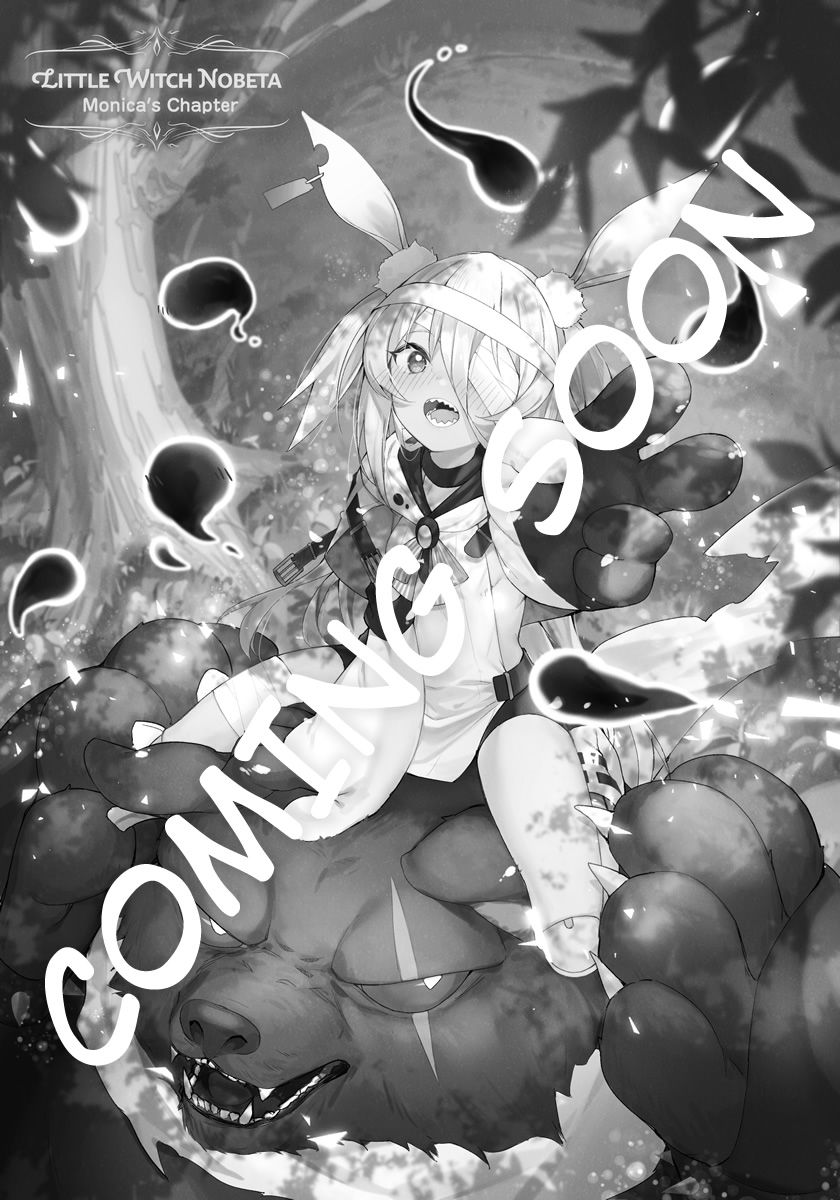
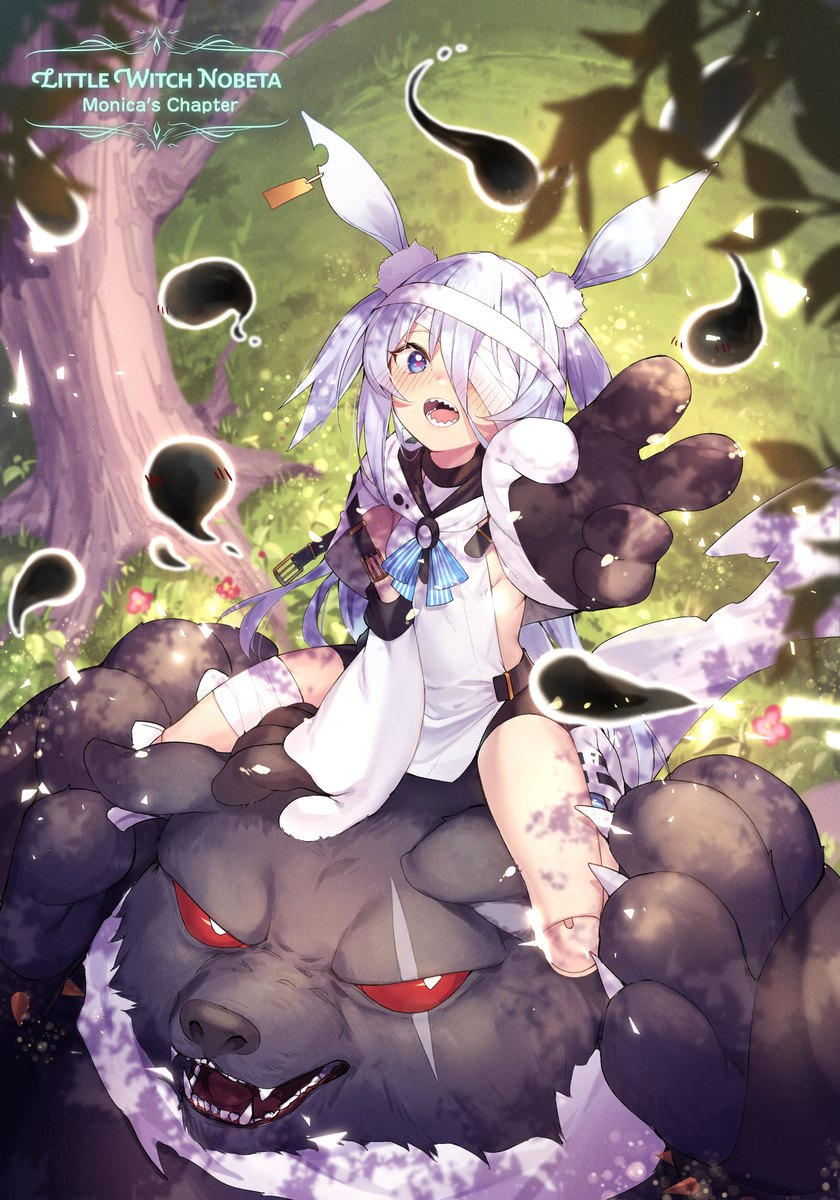
publish monica's chapter

diff --git a/projects/little-witch-nobeta/assets/aniesu.min.js b/projects/little-witch-nobeta/assets/aniesu.min.js
@@ -1,1 +1,1 @@
-!function(e,i){"use strict";if(e.Aniesu={active:!1,current:{ch:1,pg:1},chapter:{1:6,2:6,3:1,4:6,5:1},createViewer:function(){if(Aniesu.viewer)return!1;var e=i.createElement("DIV");e.id="aniesu_viewer",e.innerHTML='<div id="aniesu_viewer_prev" onclick="Aniesu.prev();"></div><div id="aniesu_viewer_next" onclick="Aniesu.next();"></div><div id="aniesu_viewer_src"></div><div id="aniesu_viewer_page" tabindex="0" onclick="Aniesu.hideHeader();"></div><div id="aniesu_viewer_head"><div id="aniesu_viewer_close" onclick="Aniesu.close();" title="Close manga viewer"></div><div id="aniesu_viewer_title"><div id="aniesu_viewer_manga_title">Little Witch Nobeta</div><div id="aniesu_viewer_chapter_title">Wanderer in the Dream</div></div><a id="aniesu_viewer_twitter" href="https://twitter.com/intent/tweet?hashtags=%E3%82%A2%E3%83%8B%E3%82%A8%E3%82%B9%E3%81%AE%E6%B5%81%E5%84%80&text=Kuro%20no%20Kiseki%3A%20Agnes\'%20Style%20-%20Chapter%201&url=https%3A%2F%2Fsethclydesdale.github.io%2Fprojects%2Fagnes-style%2F%3Fchapter%3D1" target="_blank" title="Share current chapter to Twitter"></a></div>',i.body.appendChild(e),Aniesu.viewer={body:e,ch_title:i.getElementById("aniesu_viewer_chapter_title"),page:i.getElementById("aniesu_viewer_page"),prev:i.getElementById("aniesu_viewer_prev"),next:i.getElementById("aniesu_viewer_next"),src:i.getElementById("aniesu_viewer_src"),twitter:i.getElementById("aniesu_viewer_twitter")}},open:function(e,t,n){Aniesu.active=!0,Aniesu.current={ch:e,pg:t},Aniesu.preloadPages(e),e>1&&Aniesu.preloadPages(e-1),n||Aniesu.updateURL(e),Aniesu.viewer?Aniesu.viewer.body.style.display="":Aniesu.createViewer(),i.body.style.overflow="hidden",Aniesu.updateShareLink(),Aniesu.setTitle(),Aniesu.viewer.page.style.backgroundImage="url(chapters/read/chapter-"+e+"/"+t+".jpg)",Aniesu.viewer.src.innerHTML="",Aniesu.viewer.page.focus(),Aniesu.hideHeader()},close:function(e){Aniesu.active=!1,Aniesu.viewer.body.style.display="none",i.body.style.overflow="",e||Aniesu.updateURL()},setTitle:function(){Aniesu.viewer.ch_title.innerHTML=1==Aniesu.current.ch?"Wanderer in the Dream (Preview)":2==Aniesu.current.ch?"Tania's Chapter (Preview)":3==Aniesu.current.ch?"Monica's Chapter (Preview)":4==Aniesu.current.ch?"Vanessa's Chapter (Preview)":5==Aniesu.current.ch?"The Little Black Cat (Preview)":"Chapter "+Aniesu.current.ch},next:function(){Aniesu.chapter[Aniesu.current.ch]&&++Aniesu.current.pg>Aniesu.chapter[Aniesu.current.ch]&&(Aniesu.chapter[++Aniesu.current.ch]?(Aniesu.current.pg=1,Aniesu.updateShareLink(),Aniesu.setTitle(),Aniesu.updateURL(Aniesu.current.ch)):(Aniesu.current.ch--,Aniesu.current.pg--,alert("You've reached the end of the previews! You can download the full chapters on the main page by closing the manga viewer! You can do that by clicking the middle of the screen and then the X on the top left."))),Aniesu.current.pg==Aniesu.chapter[Aniesu.current.ch]&&Aniesu.preloadPages(Aniesu.current.ch+1),Aniesu.chapter[Aniesu.current.ch]&&(Aniesu.viewer.page.style.backgroundImage="url(chapters/read/chapter-"+Aniesu.current.ch+"/"+Aniesu.current.pg+".jpg)"),9==Aniesu.current.ch&&Aniesu.current.pg>1?Aniesu.viewer.src.innerHTML='<a href="'+Aniesu.art[Aniesu.current.pg]+'" target="_blank"><i class="fa">&#xf099;</i> View on Twitter</a>':Aniesu.viewer.src.innerHTML=""},prev:function(){Aniesu.chapter[Aniesu.current.ch]&&--Aniesu.current.pg<1&&(Aniesu.chapter[--Aniesu.current.ch]?(Aniesu.preloadPages(),Aniesu.current.pg=Aniesu.chapter[Aniesu.current.ch],Aniesu.updateShareLink(),Aniesu.setTitle(),Aniesu.updateURL(Aniesu.current.ch)):(Aniesu.current.ch++,Aniesu.current.pg++,alert("This goes to the previous page! Click on the right side of the screen to show the next page. Click the middle of the page to show the top bar."))),1==Aniesu.current.pg&&Aniesu.preloadPages(Aniesu.current.ch-1),Aniesu.chapter[Aniesu.current.ch]&&(Aniesu.viewer.page.style.backgroundImage="url(chapters/read/chapter-"+Aniesu.current.ch+"/"+Aniesu.current.pg+".jpg)"),9==Aniesu.current.ch&&Aniesu.current.pg>1?Aniesu.viewer.src.innerHTML='<a href="'+Aniesu.art[Aniesu.current.pg]+'" target="_blank"><i class="fa">&#xf099;</i> View on Twitter</a>':Aniesu.viewer.src.innerHTML=""},preloadPages:function(e){if(Aniesu.chapter[e])for(var i=Aniesu.chapter[e]+1;i-- >1;)Aniesu.preload("chapters/read/chapter-"+e+"/"+i+".jpg")},preload:function(e){(new Image).src=e},hideHeader:function(e){Aniesu.timeout&&clearTimeout(Aniesu.timeout),Aniesu.timeout=setTimeout(function(){Aniesu.viewer.page.blur(),delete Aniesu.timeout},3e3)},updateShareLink:function(){Aniesu.viewer.twitter.href="https://twitter.com/intent/tweet?hashtags=%E3%82%A2%E3%83%8B%E3%82%A8%E3%82%B9%E3%81%AE%E6%B5%81%E5%84%80&text=Kuro%20no%20Kiseki%3A%20Agnes'%20Style%20-%20"+(9==Aniesu.current.ch?"Bonus%20Illustrations":"Chapter%20"+Aniesu.current.ch)+"&url=https%3A%2F%2Fsethclydesdale.github.io%2Fprojects%2Fagnes-style%2F%3Fchapter%3D"+Aniesu.current.ch},updateURL:function(t){e.history&&e.history.pushState&&e.history.pushState({},i.title,e.location.href.replace(e.location.hash,"").replace(e.location.search,"")+(t?"?chapter="+t:""))}},/chapter=\d+/i.test(e.location.search)){var t=Number(e.location.search.replace(/.*?chapter=(\d+).*/i,"$1"));Aniesu.chapter[t]&&Aniesu.open(t,1,!0)}i.addEventListener("keydown",function(e){if(Aniesu.active)switch(e.key.toLowerCase()){case"left":case"arrowleft":Aniesu.prev();break;case"right":case"arrowright":Aniesu.next();break;case"esc":case"escape":Aniesu.close()}}),e.onpopstate=function(){if(/chapter=\d+/i.test(e.location.search)){var i=Number(e.location.search.replace(/.*?chapter=(\d+).*/i,"$1"));Aniesu.chapter[i]&&Aniesu.open(i,1,!0)}else Aniesu.active&&Aniesu.close(!0)}}(window,document);
+!function(e,i){"use strict";if(e.Aniesu={active:!1,current:{ch:1,pg:1},chapter:{1:6,2:6,3:6,4:6,5:1},createViewer:function(){if(Aniesu.viewer)return!1;var e=i.createElement("DIV");e.id="aniesu_viewer",e.innerHTML='<div id="aniesu_viewer_prev" onclick="Aniesu.prev();"></div><div id="aniesu_viewer_next" onclick="Aniesu.next();"></div><div id="aniesu_viewer_src"></div><div id="aniesu_viewer_page" tabindex="0" onclick="Aniesu.hideHeader();"></div><div id="aniesu_viewer_head"><div id="aniesu_viewer_close" onclick="Aniesu.close();" title="Close manga viewer"></div><div id="aniesu_viewer_title"><div id="aniesu_viewer_manga_title">Little Witch Nobeta</div><div id="aniesu_viewer_chapter_title">Wanderer in the Dream</div></div><a id="aniesu_viewer_twitter" href="https://twitter.com/intent/tweet?hashtags=%E3%82%A2%E3%83%8B%E3%82%A8%E3%82%B9%E3%81%AE%E6%B5%81%E5%84%80&text=Kuro%20no%20Kiseki%3A%20Agnes\'%20Style%20-%20Chapter%201&url=https%3A%2F%2Fsethclydesdale.github.io%2Fprojects%2Fagnes-style%2F%3Fchapter%3D1" target="_blank" title="Share current chapter to Twitter"></a></div>',i.body.appendChild(e),Aniesu.viewer={body:e,ch_title:i.getElementById("aniesu_viewer_chapter_title"),page:i.getElementById("aniesu_viewer_page"),prev:i.getElementById("aniesu_viewer_prev"),next:i.getElementById("aniesu_viewer_next"),src:i.getElementById("aniesu_viewer_src"),twitter:i.getElementById("aniesu_viewer_twitter")}},open:function(e,t,n){Aniesu.active=!0,Aniesu.current={ch:e,pg:t},Aniesu.preloadPages(e),e>1&&Aniesu.preloadPages(e-1),n||Aniesu.updateURL(e),Aniesu.viewer?Aniesu.viewer.body.style.display="":Aniesu.createViewer(),i.body.style.overflow="hidden",Aniesu.updateShareLink(),Aniesu.setTitle(),Aniesu.viewer.page.style.backgroundImage="url(chapters/read/chapter-"+e+"/"+t+".jpg)",Aniesu.viewer.src.innerHTML="",Aniesu.viewer.page.focus(),Aniesu.hideHeader()},close:function(e){Aniesu.active=!1,Aniesu.viewer.body.style.display="none",i.body.style.overflow="",e||Aniesu.updateURL()},setTitle:function(){Aniesu.viewer.ch_title.innerHTML=1==Aniesu.current.ch?"Wanderer in the Dream (Preview)":2==Aniesu.current.ch?"Tania's Chapter (Preview)":3==Aniesu.current.ch?"Monica's Chapter (Preview)":4==Aniesu.current.ch?"Vanessa's Chapter (Preview)":5==Aniesu.current.ch?"The Little Black Cat (Preview)":"Chapter "+Aniesu.current.ch},next:function(){Aniesu.chapter[Aniesu.current.ch]&&++Aniesu.current.pg>Aniesu.chapter[Aniesu.current.ch]&&(Aniesu.chapter[++Aniesu.current.ch]?(Aniesu.current.pg=1,Aniesu.updateShareLink(),Aniesu.setTitle(),Aniesu.updateURL(Aniesu.current.ch)):(Aniesu.current.ch--,Aniesu.current.pg--,alert("You've reached the end of the previews! You can download the full chapters on the main page by closing the manga viewer! You can do that by clicking the middle of the screen and then the X on the top left."))),Aniesu.current.pg==Aniesu.chapter[Aniesu.current.ch]&&Aniesu.preloadPages(Aniesu.current.ch+1),Aniesu.chapter[Aniesu.current.ch]&&(Aniesu.viewer.page.style.backgroundImage="url(chapters/read/chapter-"+Aniesu.current.ch+"/"+Aniesu.current.pg+".jpg)"),9==Aniesu.current.ch&&Aniesu.current.pg>1?Aniesu.viewer.src.innerHTML='<a href="'+Aniesu.art[Aniesu.current.pg]+'" target="_blank"><i class="fa">&#xf099;</i> View on Twitter</a>':Aniesu.viewer.src.innerHTML=""},prev:function(){Aniesu.chapter[Aniesu.current.ch]&&--Aniesu.current.pg<1&&(Aniesu.chapter[--Aniesu.current.ch]?(Aniesu.preloadPages(),Aniesu.current.pg=Aniesu.chapter[Aniesu.current.ch],Aniesu.updateShareLink(),Aniesu.setTitle(),Aniesu.updateURL(Aniesu.current.ch)):(Aniesu.current.ch++,Aniesu.current.pg++,alert("This goes to the previous page! Click on the right side of the screen to show the next page. Click the middle of the page to show the top bar."))),1==Aniesu.current.pg&&Aniesu.preloadPages(Aniesu.current.ch-1),Aniesu.chapter[Aniesu.current.ch]&&(Aniesu.viewer.page.style.backgroundImage="url(chapters/read/chapter-"+Aniesu.current.ch+"/"+Aniesu.current.pg+".jpg)"),9==Aniesu.current.ch&&Aniesu.current.pg>1?Aniesu.viewer.src.innerHTML='<a href="'+Aniesu.art[Aniesu.current.pg]+'" target="_blank"><i class="fa">&#xf099;</i> View on Twitter</a>':Aniesu.viewer.src.innerHTML=""},preloadPages:function(e){if(Aniesu.chapter[e])for(var i=Aniesu.chapter[e]+1;i-- >1;)Aniesu.preload("chapters/read/chapter-"+e+"/"+i+".jpg")},preload:function(e){(new Image).src=e},hideHeader:function(e){Aniesu.timeout&&clearTimeout(Aniesu.timeout),Aniesu.timeout=setTimeout(function(){Aniesu.viewer.page.blur(),delete Aniesu.timeout},3e3)},updateShareLink:function(){Aniesu.viewer.twitter.href="https://twitter.com/intent/tweet?hashtags=%E3%82%A2%E3%83%8B%E3%82%A8%E3%82%B9%E3%81%AE%E6%B5%81%E5%84%80&text=Kuro%20no%20Kiseki%3A%20Agnes'%20Style%20-%20"+(9==Aniesu.current.ch?"Bonus%20Illustrations":"Chapter%20"+Aniesu.current.ch)+"&url=https%3A%2F%2Fsethclydesdale.github.io%2Fprojects%2Fagnes-style%2F%3Fchapter%3D"+Aniesu.current.ch},updateURL:function(t){e.history&&e.history.pushState&&e.history.pushState({},i.title,e.location.href.replace(e.location.hash,"").replace(e.location.search,"")+(t?"?chapter="+t:""))}},/chapter=\d+/i.test(e.location.search)){var t=Number(e.location.search.replace(/.*?chapter=(\d+).*/i,"$1"));Aniesu.chapter[t]&&Aniesu.open(t,1,!0)}i.addEventListener("keydown",function(e){if(Aniesu.active)switch(e.key.toLowerCase()){case"left":case"arrowleft":Aniesu.prev();break;case"right":case"arrowright":Aniesu.next();break;case"esc":case"escape":Aniesu.close()}}),e.onpopstate=function(){if(/chapter=\d+/i.test(e.location.search)){var i=Number(e.location.search.replace(/.*?chapter=(\d+).*/i,"$1"));Aniesu.chapter[i]&&Aniesu.open(i,1,!0)}else Aniesu.active&&Aniesu.close(!0)}}(window,document);

diff --git a/projects/little-witch-nobeta/index.html b/projects/little-witch-nobeta/index.html
@@ -71,7 +71,8 @@
             <h2 class="chapter-title" id="chapter-monica">Monica's Chapter</h2>
             <div class="chapter-image"><img src="assets/images/chapter_monica.png" alt="Monica"></div>
             <div class="reading-sources">
-              <em style="display:inline-block; margin-top:10px; font-weight:bold; font-size:16px; color:#933;"><img src="assets/images/nobearta.png" style="vertical-align:-15px;" alt="Nobearta">Currently Editing...</em>
+              <a class="preview" onclick="Aniesu.open(3, 1)" title="Preview this chapter">Preview</a>
+              <a class="download" href="https://drive.google.com/file/d/1Sj3vxPAFx4hRtjJwSoApNneru9BiRCkQ/view?usp=sharing" target="_blank" title="Download this chapter">Download</a>
             </div>
           </div>
           
@@ -91,6 +92,7 @@
             <div class="chapter-image"><img src="assets/images/chapter_kitty.png" alt="Kitty"></div>
             <div class="reading-sources">
               <em style="display:inline-block; margin-top:10px; font-weight:bold; font-size:16px;"><img src="assets/images/kittybeta.png" style="vertical-align:-15px;" alt="I hate my life">Coming Soon...</em>
+              <!--<em style="display:inline-block; margin-top:10px; font-weight:bold; font-size:16px; color:#933;"><img src="assets/images/nobearta.png" style="vertical-align:-15px;" alt="Nobearta">Currently Editing...</em>-->
             </div>
           </div>
         </div>

diff --git a/projects/little-witch-nobeta/assets/aniesu.js b/projects/little-witch-nobeta/assets/aniesu.js
@@ -16,7 +16,7 @@
     chapter : {
       1 : 6,
       2 : 6,
-      3 : 1,
+      3 : 6,
       4 : 6,
       5 : 1,
     },
